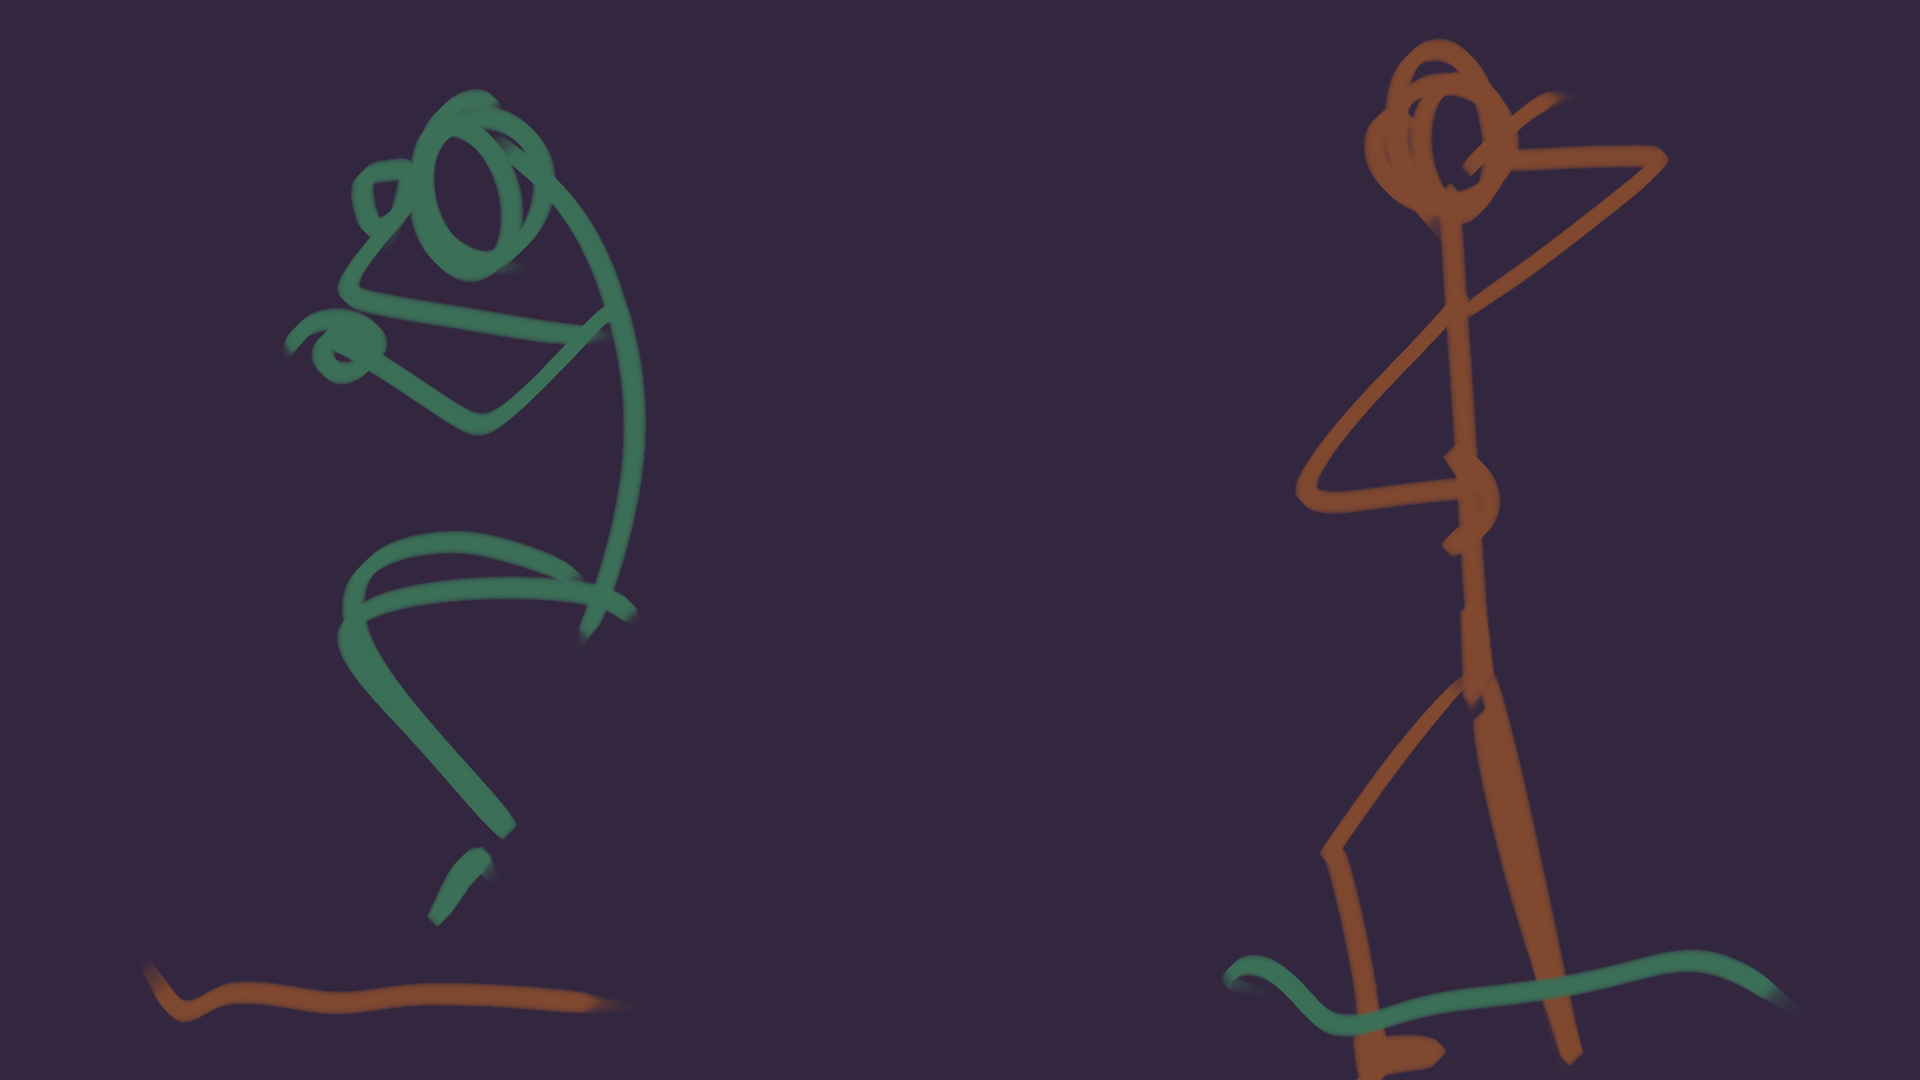
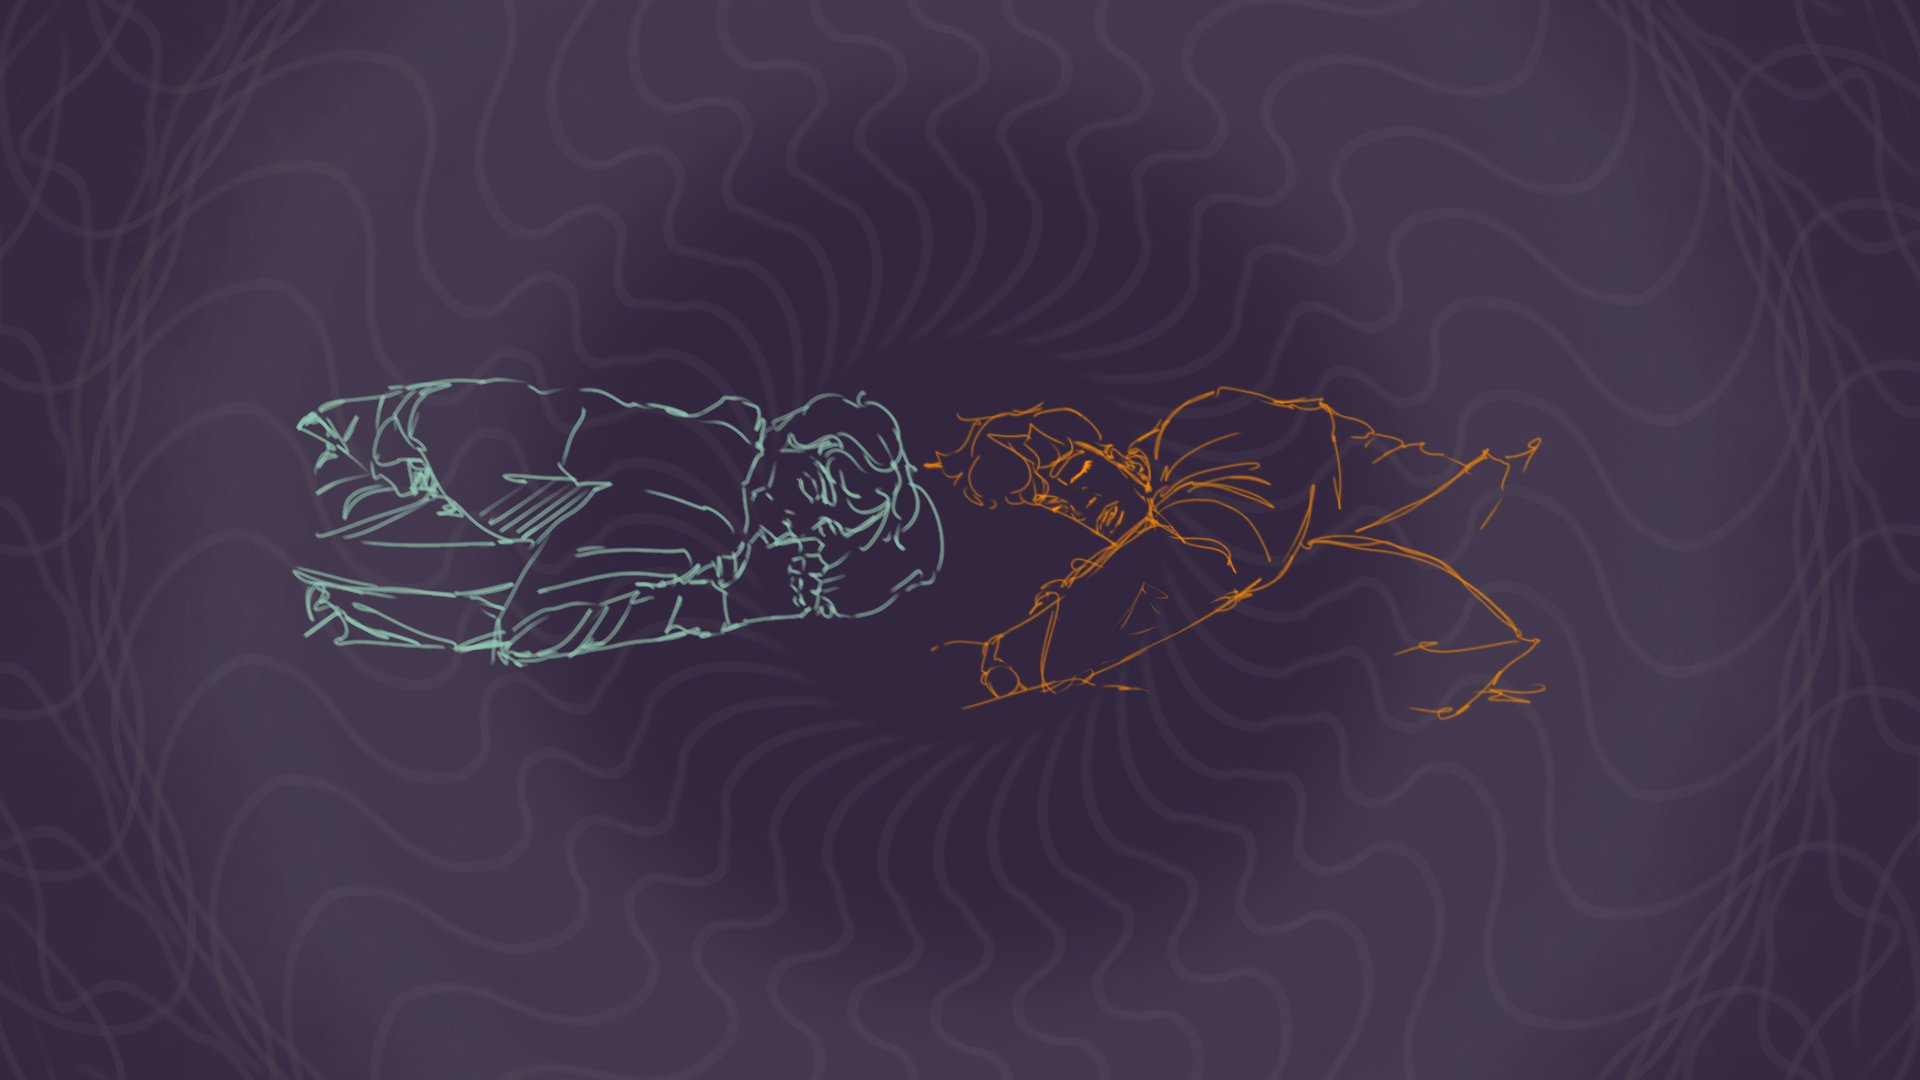
ащкь

diff --git a/index.html b/index.html
@@ -4,25 +4,60 @@
 <title>Start</title>
 
 
-<style> body { background-image: url("start.png");
-    background-size: contain;      
-    background-repeat: no-repeat; 
-    background-position: center;
-} </style>
+<meta name="viewport" content="width=device-width, initial-scale=1.0">
+
+<style>
+body {
+  margin: 0;
+  height: 100vh; /* вместо min-height */
+  overflow: hidden; /* убирает прокрутку */
+  background-image: url("start.png");
+  background-size: cover;
+  background-repeat: no-repeat;
+  background-position: center;
+}
+
+ .row {
+      display: flex;
+      justify-content: center;
+      align-items: center;
+      gap: 50px;
+      margin-top: 70px;
+    }
+	
+	
+
+
+h1, h2, h3 {
+  text-align: center;
+  margin-top: 65px;
+  margin-bottom: 100px;
+  font-size: 60px;
+  color: white;
+}
+
+
+@media (max-width: 600px) {
+  .row {
+    flex-direction: column;
+    align-items: center;
+  }
+}
 
 
 
+</style>
 
-<style> h1 {text-align: center; margin-top: 100px; margin-bottom: 100px; font-size: 50px;} </style>
-<style> h2 {text-align: center; margin-top: 100px; margin-bottom: 100px; font-size: 50px;} </style>
-<style> h3 {text-align: center; margin-top: 100px; margin-bottom: 100px; font-size: 50px;} </style>
 
 </head>
 <body>
 
+
+<div class = "column">
 <a href = "page1.html"><h1>Start</h1></a>
 <h2>Contact</h2>
 <h3>Secret</h3>
+</div>
 
 </body>
 </html>

diff --git a/james1.html b/james1.html
@@ -1,7 +1,6 @@
 <!DOCTYPE html>
 <html>
 <head>
-
 <title>choice</title>
 <meta name="viewport" content="width=device-width, initial-scale=1.0">
 
@@ -10,7 +9,7 @@ body {
   margin: 0;
   height: 100vh; /* вместо min-height */
   overflow: hidden; /* убирает прокрутку */
-  background-image: url("page2.png");
+  background-image: url(".png");
   background-size: cover;
   background-repeat: no-repeat;
   background-position: center;
@@ -26,18 +25,18 @@ body {
 
 
 h1, h2 {
-  text-align: center;
-  margin-top: 100px;
-  margin-bottom: 100px;
-  font-size: 50px;
+  text-align: right; /* теперь вправо */
+  margin: 0;
+  font-size: 40px;
 }
 
 
 
-.row {
-  display: flex;
-  justify-content: center;
-  gap: 50px;
+.vertical-align {
+  position: absolute;
+  top: 60%;   /* ниже */
+  right: 5%;   /* отступ справа */
+  transform: translateY(-50%);
 }
 
 @media (max-width: 600px) {
@@ -57,10 +56,11 @@ h1, h2 {
 <body>
 
 
-<div class="row">
-<a href = "viktor1.html"><h1>Viktor</h1>
-<a href = "james1.html"><h2>James</h2>
+<div class="vertical-align">
+<a href= "james2.html"><h1>О я уже проснулся дада утро доброе утро</h1>
+<h2>Wanna watch smth on tv</h2>
 </div>
+
 
 </body>
 </html>

diff --git a/viktor1.html b/viktor1.html
@@ -1,7 +1,6 @@
 <!DOCTYPE html>
 <html>
 <head>
-
 <title>choice</title>
 <meta name="viewport" content="width=device-width, initial-scale=1.0">
 
@@ -10,7 +9,7 @@ body {
   margin: 0;
   height: 100vh; /* вместо min-height */
   overflow: hidden; /* убирает прокрутку */
-  background-image: url("page2.png");
+  background-image: url(".png");
   background-size: cover;
   background-repeat: no-repeat;
   background-position: center;
@@ -26,18 +25,18 @@ body {
 
 
 h1, h2 {
-  text-align: center;
-  margin-top: 100px;
-  margin-bottom: 100px;
-  font-size: 50px;
+  text-align: left; /* теперь влево */
+  margin: 0;
+  font-size: 40px;
 }
 
 
 
-.row {
-  display: flex;
-  justify-content: center;
-  gap: 50px;
+.vertical-align {
+  position: absolute;
+  top: 60%;   /* ниже */
+  left: 5%;   /* отступ слева */
+  transform: translateY(-50%);
 }
 
 @media (max-width: 600px) {
@@ -57,10 +56,11 @@ h1, h2 {
 <body>
 
 
-<div class="row">
-<a href = "viktor1.html"><h1>Viktor</h1>
-<a href = "james1.html"><h2>James</h2>
+<div class="vertical-align">
+<a href="viktor2.html"><h1>Хочу телек посмотреть</h1></a>
+<h2>Wanna watch smth on tv</h2>
 </div>
+
 
 </body>
 </html>

diff --git a/james2.html b/james2.html
@@ -1,0 +1,10 @@
+<!DOCTYPE html>
+<html>
+<head>
+<title>james</title>
+</head>
+<body>
+<h1>Тут должно быть видео про американскую пропаганду которую ты скачаешь из интернета и вставишь сюда скоро поняла</h1>
+<p>This is a paragraph.</p>
+</body>
+</html>

diff --git a/viktor2.html b/viktor2.html
@@ -1,0 +1,10 @@
+<!DOCTYPE html>
+<html>
+<head>
+<title>viktor</title>
+</head>
+<body>
+<h1>Тут должно быть видео про советскую пропаганду которую ты скачаешь из интернета и вставишь сюда скоро поняла</h1>
+<p>This is a paragraph.</p>
+</body>
+</html>
